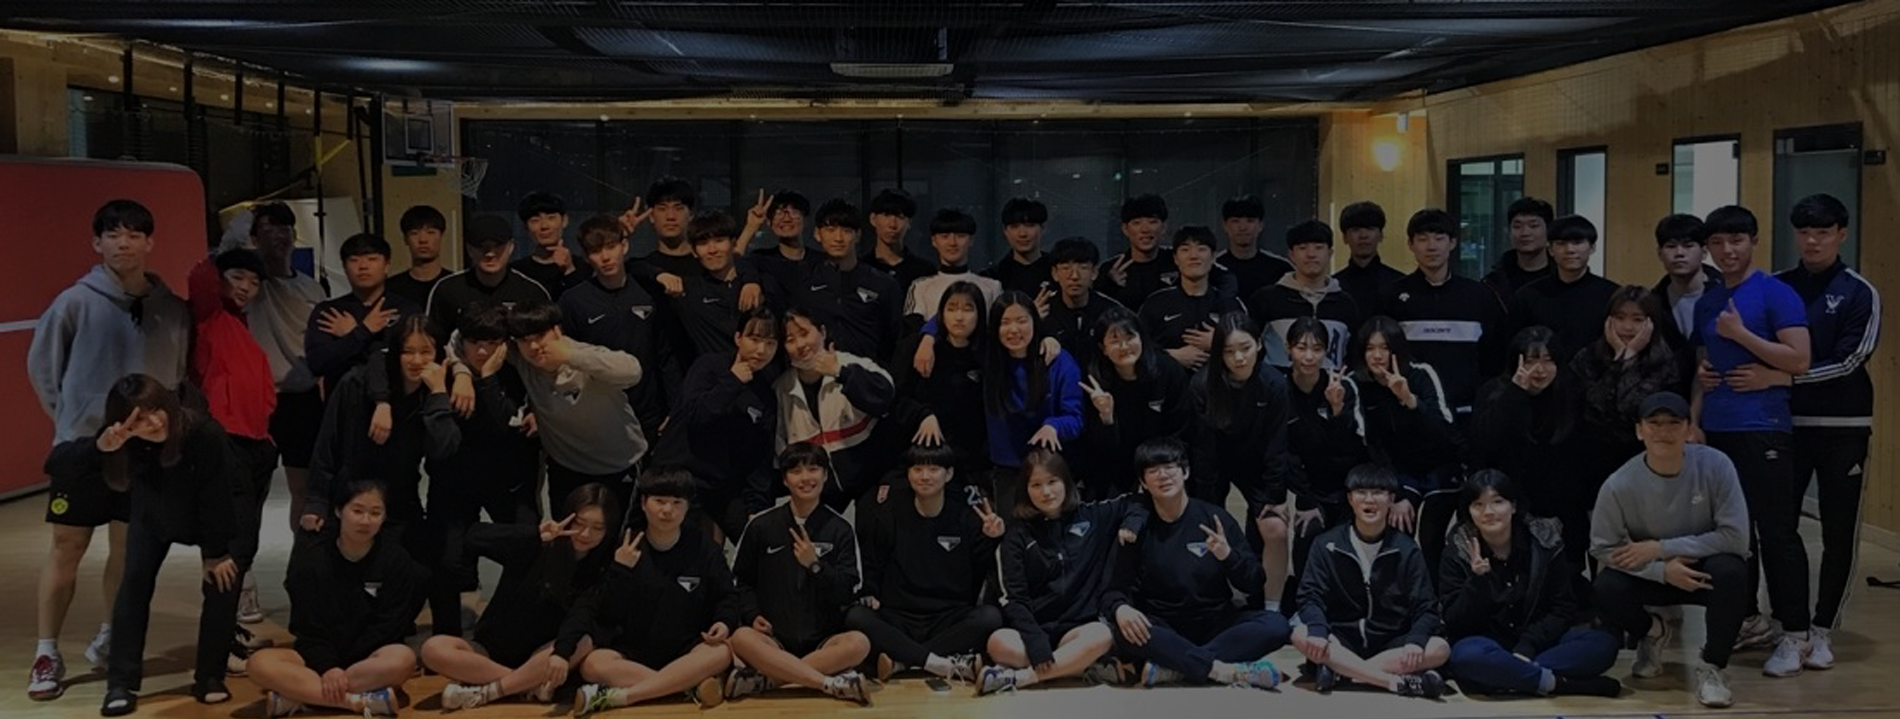
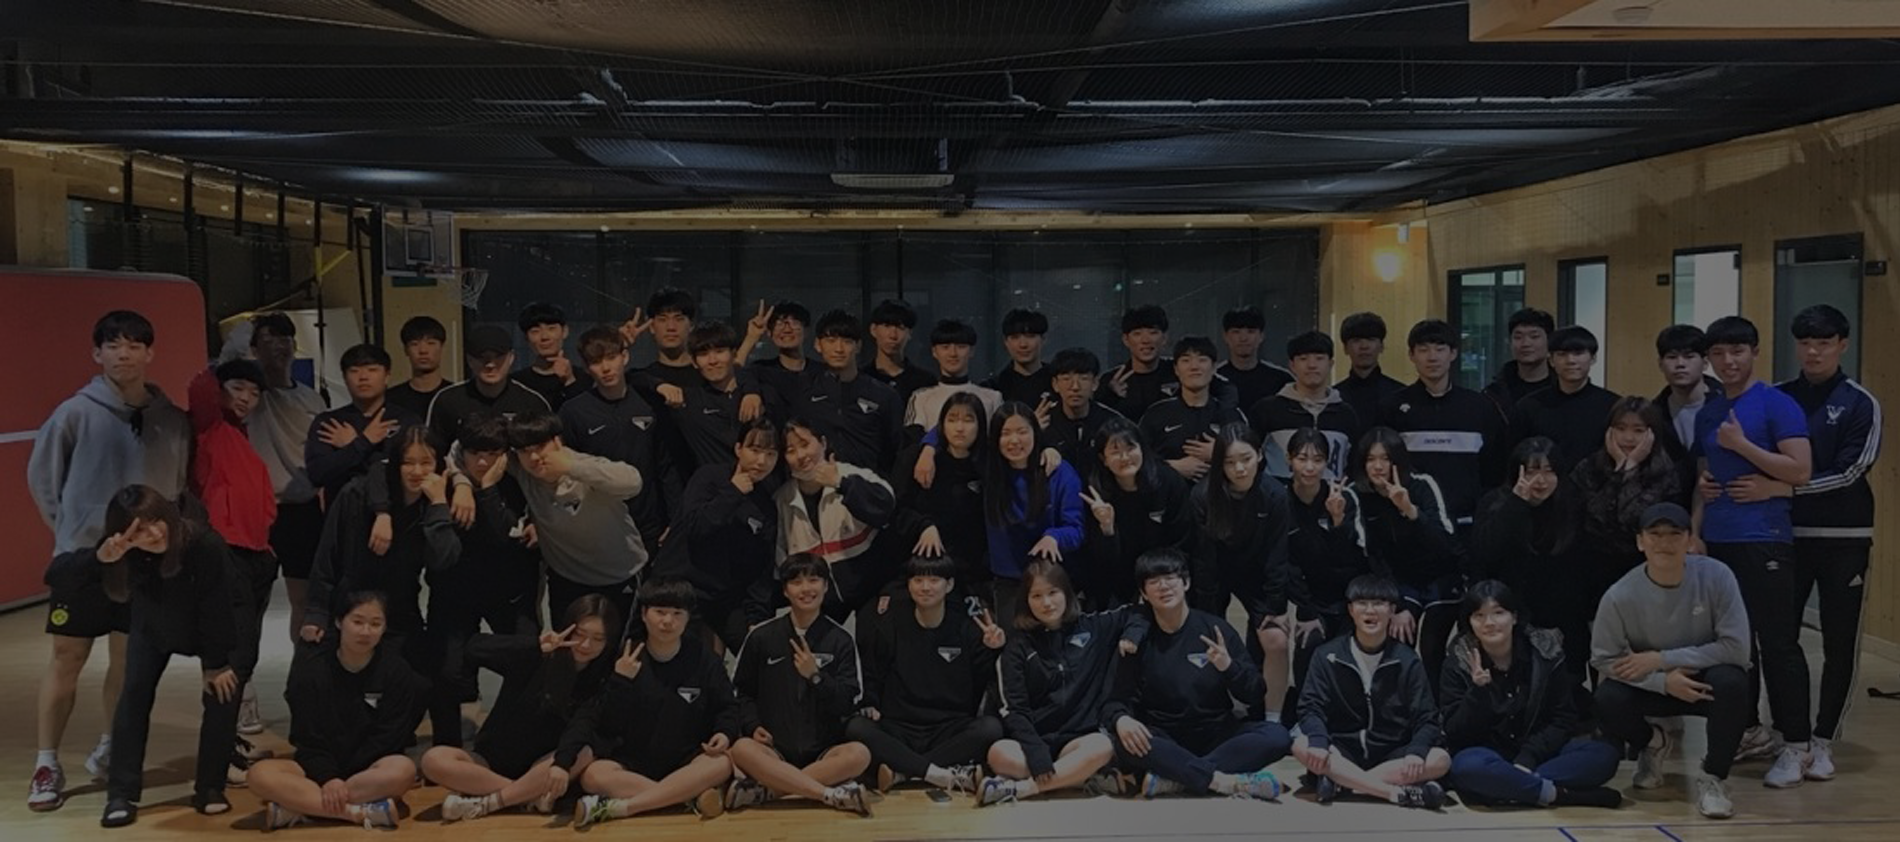
subtitle image replaced

diff --git a/_includes/jp_nav.html b/_includes/jp_nav.html
@@ -8,7 +8,7 @@
             {{ site.title }}
           {%- endif -%}
       </a>
-      <button class="navbar-toggler navbar-toggler-right" type="button" data-toggle="collapse" data-target="#navbarResponsive" aria-controls="navbarResponsive" aria-expanded="false" aria-label="Toggle navigation">
+      <button class="navbar-toggler navbar-toggler-right" style="margin-top:12px;" type="button" data-toggle="collapse" data-target="#navbarResponsive" aria-controls="navbarResponsive" aria-expanded="false" aria-label="Toggle navigation">
         Menu
         <i class="fas fa-bars"></i>
       </button>
